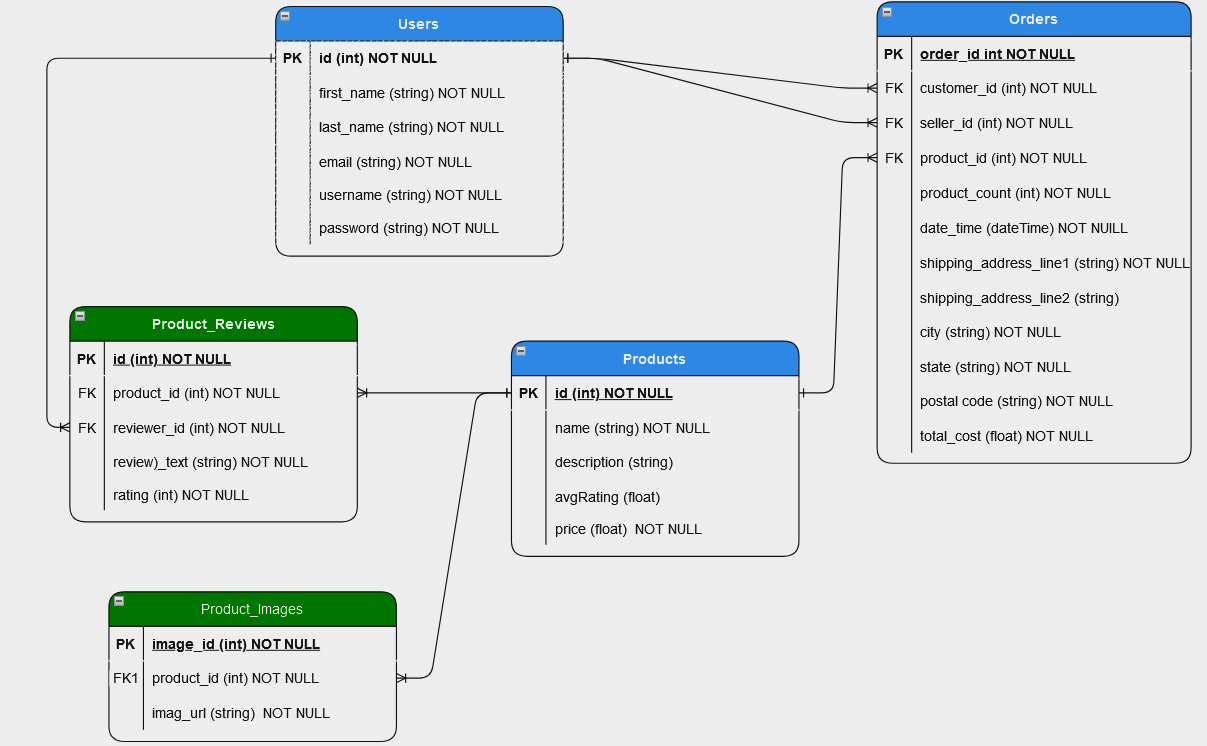
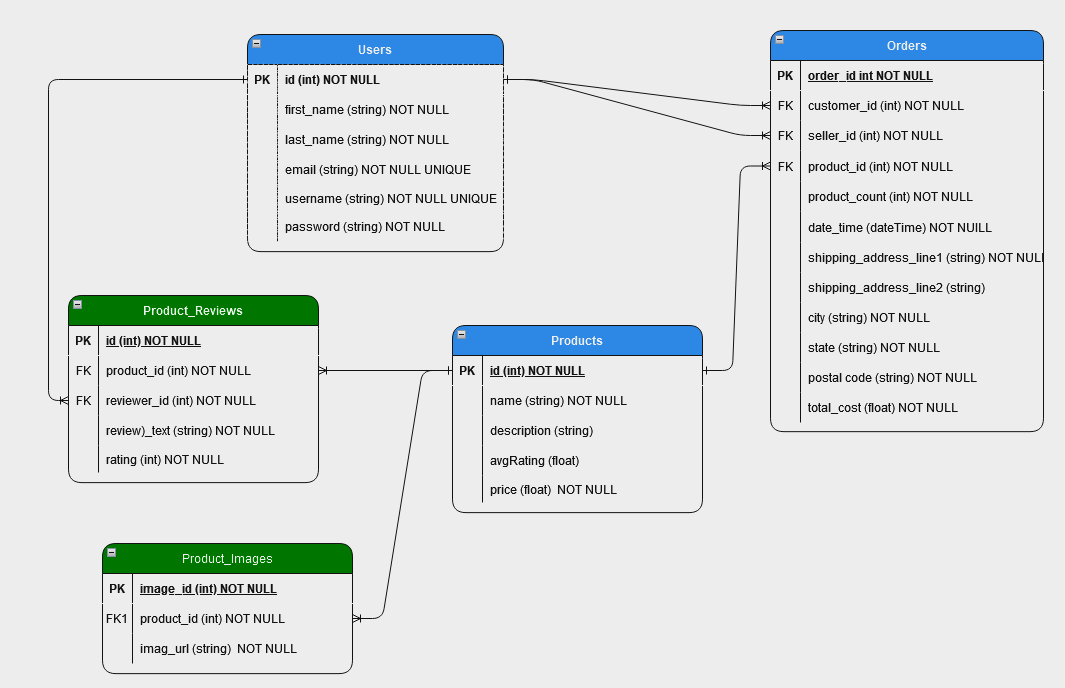
updated user model/controller and ER diagram for unique email

diff --git a/easyshopping/src/main/java/com/fullstackshopping/easyshopping/controller/UserController.java b/easyshopping/src/main/java/com/fullstackshopping/easyshopping/controller/UserController.java
@@ -66,9 +66,15 @@ public class UserController {
             throw new ResponseStatusException(HttpStatus.BAD_REQUEST, "Username already exists");
         }
 
+        // check if the updated email conflicts with existing users
+        if (!existingUser.getEmail().equals(updatedUser.getEmail()) &&
+                userRepository.existsByEmail(updatedUser.getEmail())) {
+            throw new ResponseStatusException(HttpStatus.BAD_REQUEST, "Email already exists");
+        }
+
+        // update other columns
         existingUser.setFirstName(updatedUser.getFirstName());
         existingUser.setLastName(updatedUser.getLastName());
-        existingUser.setEmail(updatedUser.getEmail());
         existingUser.setPassword(updatedUser.getPassword());
 
         this.userRepository.save(existingUser);

diff --git a/easyshopping/src/main/java/com/fullstackshopping/easyshopping/model/User.java b/easyshopping/src/main/java/com/fullstackshopping/easyshopping/model/User.java
@@ -24,7 +24,7 @@ public class User implements Serializable {
     @Column(nullable = false, name="last_name", length = 50)
     private String lastName;
 
-    @Column(nullable = false, length = 320)
+    @Column(nullable = false, length = 320, unique = true)
     private String email;
 
     @Column(nullable = false, unique = true, length = 25)
